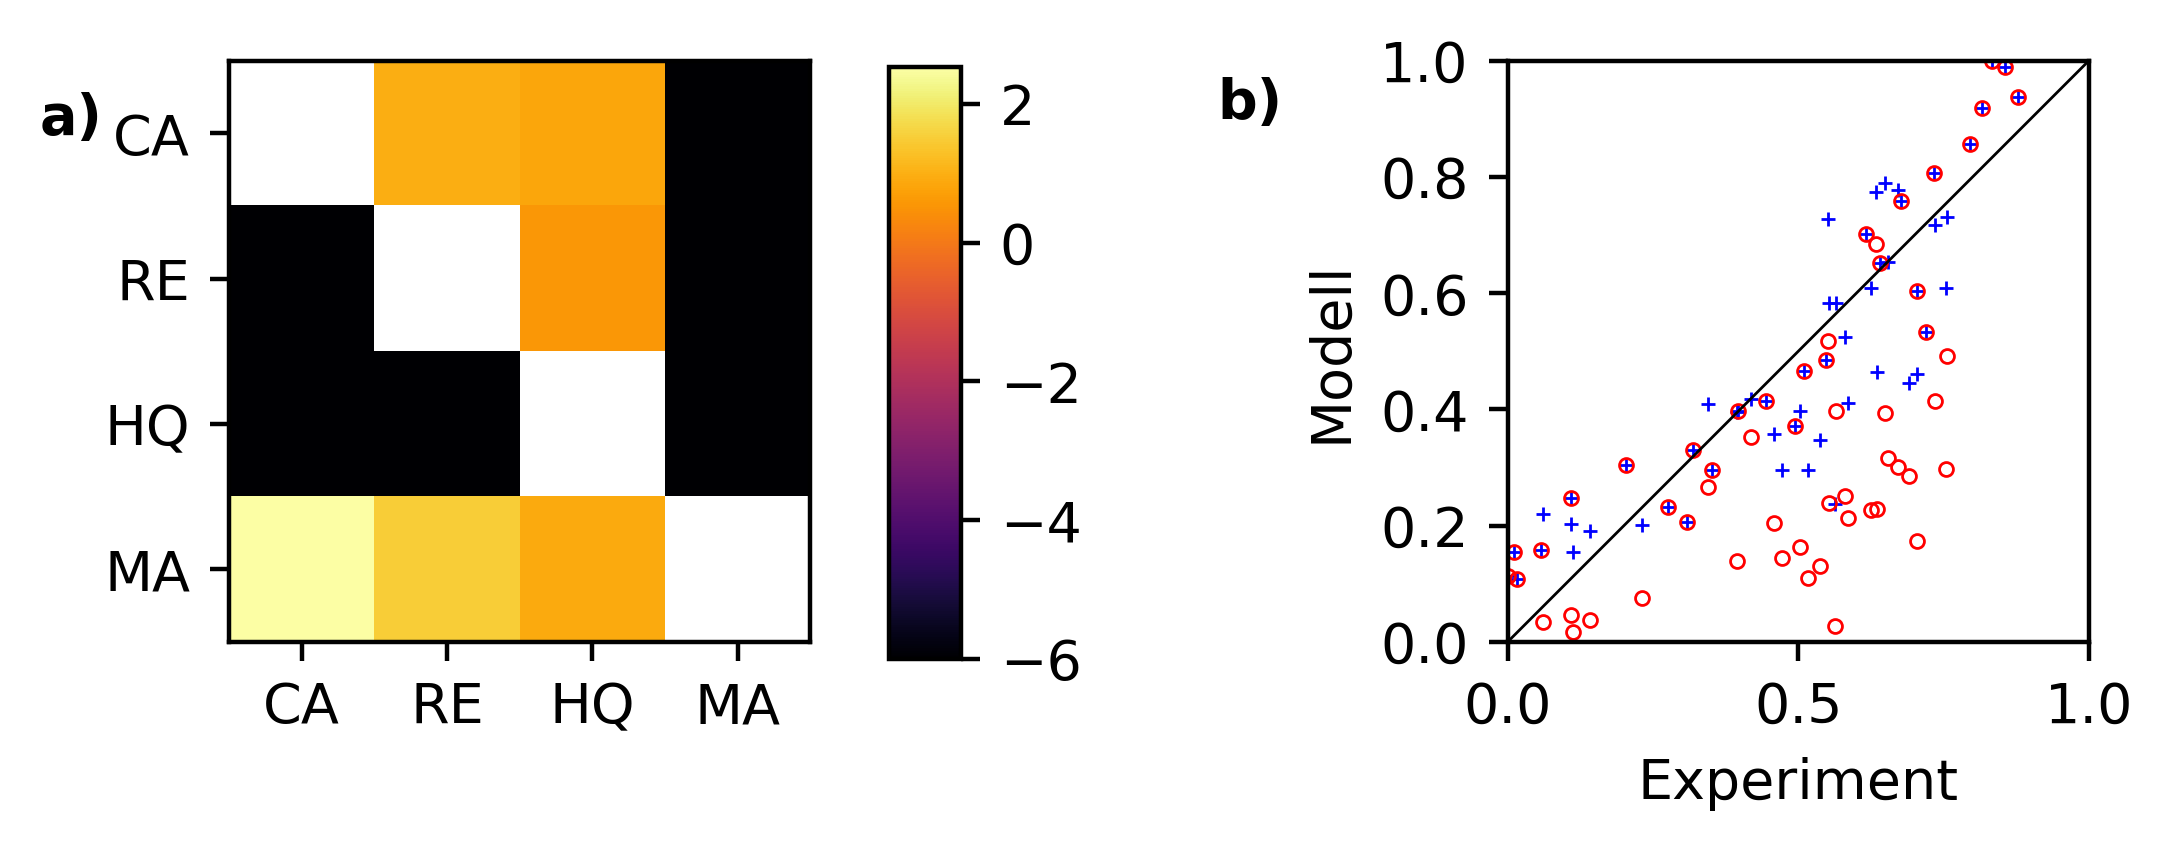
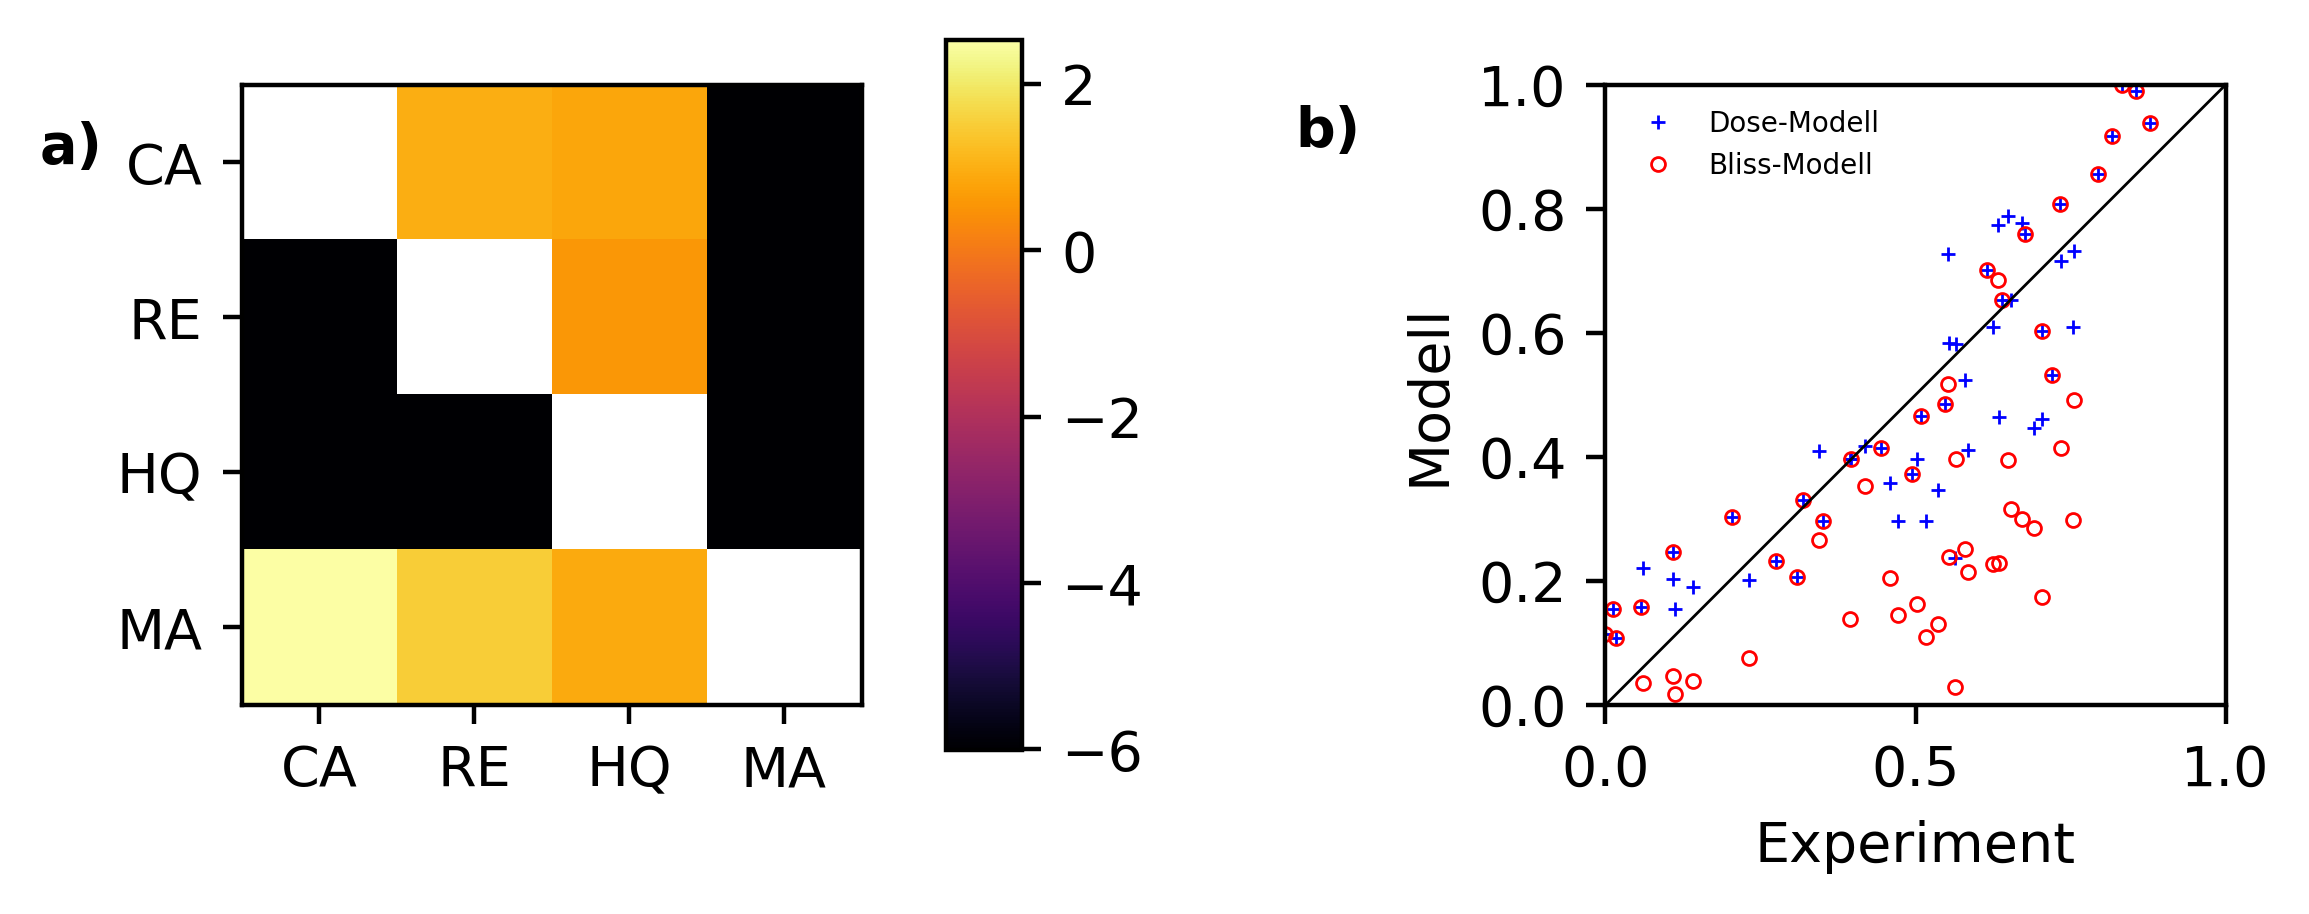
added legend to plot

diff --git a/experiments/synergism/Plotting.py b/experiments/synergism/Plotting.py
@@ -36,13 +36,14 @@ ax.text(-1.8,0,"a)", fontweight="bold")
 ax=axs[1]
 ax.set_aspect('equal')
 
-ax.plot(df["experiment"], df["model"], "b+", ms=2.5, mew=0.5)
-ax.plot(df["experiment"], df["bliss"], "ro", ms=2.5, fillstyle='none', mew=0.5)
+ax.plot(df["experiment"], df["model"], "b+", ms=2.5, mew=0.5, label="Dose-Modell")
+ax.plot(df["experiment"], df["bliss"], "ro", ms=2.5, fillstyle='none', mew=0.5, label="Bliss-Modell")
 ax.plot([0,1], [0,1], "k", linewidth=0.5)
 ax.set_xlim(xmin=0, xmax=1)
 ax.set_ylim(ymin=0, ymax=1)
 ax.set_xlabel("Experiment")
 ax.set_ylabel("Modell")
+ax.legend(loc='upper left', frameon=False, fontsize=5)
 ax.text(-0.5,0.9,"b)", fontweight="bold")
 fig.savefig("combined.png", dpi=400, bbox_inches="tight")
 
